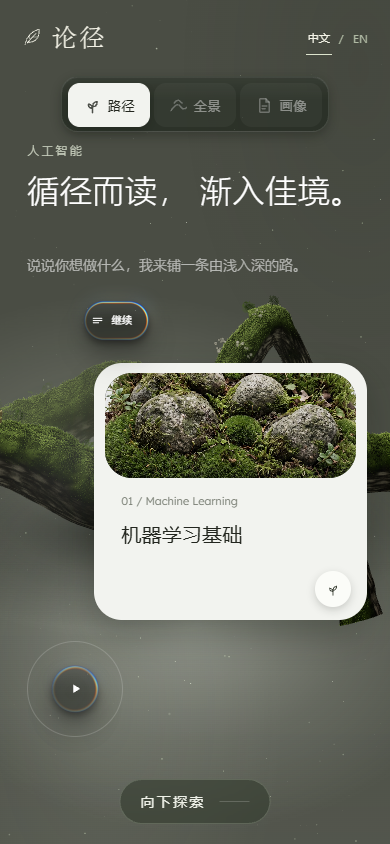
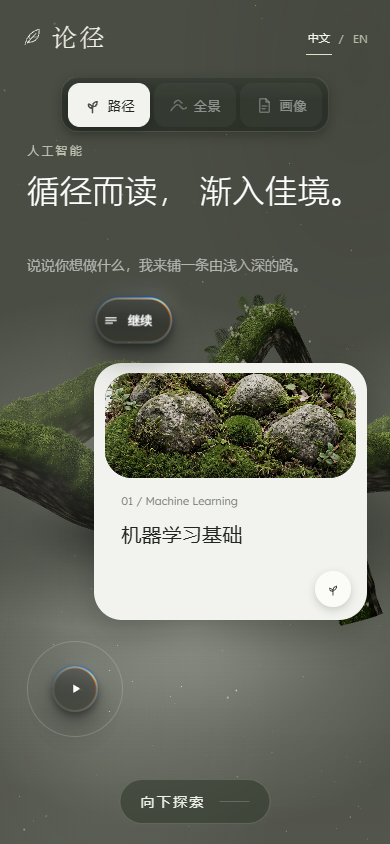
Extend vine right with continuous roots and layered atmosphere

diff --git a/lun-path/public/scenes/grove.html b/lun-path/public/scenes/grove.html
@@ -3396,6 +3396,8 @@ window.__seek   = v => { clock = v; drawn = null; };
 
     /* ---- near root ---- */
     var nearLimbs = buildNearRoot();
+    var butterflyLimbs = nearLimbs.slice();
+    nearLimbs = extendJourneyTrunk(nearLimbs);
     var mainCount = nearLimbs.length;
     /* a scatter of stubby offshoots, so the tubes never read as hoses */
     var hp = new THREE.Vector3(), hn = new THREE.Vector3();
@@ -3417,12 +3419,12 @@ window.__seek   = v => { clock = v; drawn = null; };
 
     nearGroup = assembleRoot(nearLimbs, {
       aspect: ARCH.aspect, haze: 0.15, fog: 0.0, alpha: 1.0, order: 2,
-      blades: BLADES_NEAR, ferns: small ? 26 : 46, flowers: small ? 120 : 260,
+      blades: BLADES_NEAR + (small ? 80000 : 180000), ferns: small ? 54 : 108, flowers: small ? 220 : 460,
       fernSize: [0.22, 0.50], flowerSize: [0.055, 0.118], mainLimbs: mainCount, wire: true,
       mouse: uMouseNear, mouseR: 1.20
     });
     scene.add(nearGroup);
-    if (!small) bf = buildButterfly(nearGroup, nearLimbs, nearGroup.userData.uni);
+    bf = buildButterfly(nearGroup, butterflyLimbs, nearGroup.userData.uni);
 
     /* ---- far ridge: same builder, pushed back and washed into the air.
             It dissolves before it reaches the cards (local x 0.5 → 4.0) and
@@ -3440,8 +3442,8 @@ window.__seek   = v => { clock = v; drawn = null; };
     });
     scene.add(farGroup);
 
-    buildJourney();
     buildAmbient();
+    buildJourney();
     layout();
     window.addEventListener('resize', layout);
     clock = new THREE.Clock();
@@ -4244,10 +4246,11 @@ window.__seek   = v => { clock = v; drawn = null; };
   }
 
   /* ── frame ─────────────────────────────────────────────────────────── */
-  /* Negative camera X looks LEFT; the world and native cards move RIGHT. */
+  /* Positive camera X looks RIGHT; the world and native cards move LEFT. */
   var travelTarget = 0, travelCurrent = 0, travelLast = null;
   var travelOverview = false, travelDirty = true, travelAnchors = [];
-  var travelSpan = 1, journeyGroups = [];
+  var travelSpan = 1, journeyGroups = [], journeyBranches = [], journeyPerches = [];
+  var journeyAir = [], journeyButterflies = [];
   var travelPose = { progress: 0, x: 0, y: 0, zoom: 1 };
   window.__groveTravel = {
     setProgress: function(p) { travelTarget = Math.max(0, Math.min(1, Number(p) || 0)); },
@@ -4255,38 +4258,67 @@ window.__seek   = v => { clock = v; drawn = null; };
     setOverview: function(value) { travelOverview = value; travelDirty = true; },
     moveNode: function() {
       var rect = document.querySelector('.play-wrap').getBoundingClientRect();
-      travelTarget = Math.min(1, travelCurrent + Math.max(0, W - rect.left + 4) / travelSpan);
+      travelTarget = Math.min(1, travelCurrent + Math.max(0, rect.right + 4) / travelSpan);
     }
   };
   window.addEventListener('resize', function() { travelDirty = true; });
-  function buildJourney() {
-    // Extend the authored near root with its own bark/moss shaders and plants.
+  function extendJourneyTrunk(nearLimbs) {
+    // A continuous trunk removes exposed ends between extension sections.
+    // Branch ends taper inside that trunk, using Sylva's original surface builder.
     var identity = function(x,y,z) { return new THREE.Vector3(x,y,z || 0); };
+    var original=nearLimbs[0];
+    var spine=original.curve.points.map(function(p){return [p.x,p.y,p.z];});
+    spine.push([6.5,-.66,-.65]);
     for (var j=0;j<4;j++) {
-      var start=-5.75-j*7.2, base=-.30;
-      var trunk=makeLimb(identity, [
-        [start+.18,j===0?-1.70:base,-.62],[start-1.5,base+.5,0],
-        [start-3.4,base+1.15,.25],[start-5.3,base+.25,0],[start-7.38,base,-.62]
-      ], {segs:180,radial:24,vScale:24,rt:[.56,.58,.6,.54,.56],sink:.5});
+      var start=5.9+j*7.2, base=-.30;
+      spine.push([start+1.5,base+.5,0], [start+3.4,base+1.15,.25],
+        [start+5.3,base+.25,0],[start+7.2,base,-.62]);
       var up=j%2===0;
       var branch=makeLimb(identity, [
-        [start-.8,base+.18,-.1], [start-2,base+(up?1.7:-.8),.15],
-        [start-3.5,base+(up?3.1:-1.3),.1], [start-5,base+(up?2.1:-.8),-.18],
-        [start-6.7,base+.12,-.45]
-      ], {segs:140,radial:20,vScale:22,rt:[.3,.36,.39,.32,.28],sink:.35});
-      var g=assembleRoot([trunk,branch], {
-        aspect:ARCH.aspect,haze:.15,fog:0,alpha:1,order:2,
-        blades:NARROW.matches?22000:65000,ferns:18,flowers:65,
-        fernSize:[.22,.50],flowerSize:[.055,.118],mainLimbs:2,wire:true,
+        [start+.45,j===0?-.46:base+.10,-.48],
+        [start+1.25,base+(up?.7:-.25),-.08],
+        [start+2.4,base+(up?2.2:-1),up?-1.25:-.5],
+        [start+3.6,base+(up?2.9:-1.25),up?-1.65:-.7],
+        [start+5,base+(up?2:-.75),up?-1.15:-.5],
+        [start+6.25,base+(up?.45:-.20),-.38],
+        [start+6.9,base+.03,-.55]
+      ], {segs:180,radial:24,vScale:22,rt:[.08,.23,.34,.37,.32,.21,.06],sink:.35});
+      journeyBranches.push({limb:branch,far:up});
+      journeyPerches.push(makeLimb(identity,[
+        [start+1.5,base+.5,0],[start+3.4,base+1.15,.25],[start+5.3,base+.25,0]
+      ],{segs:90,radial:20,vScale:12,rt:[.56,.56,.56],sink:.5}));
+    }
+    // Continue beyond the final stop, keeping the far endpoint out of view.
+    spine.push([36.7,-.1,-.55],[39,.35,-.25]);
+    var curve=new THREE.CatmullRomCurve3(spine.map(function(p){return identity(p[0],p[1],p[2]);}),false,'centripetal',.5);
+    var originalFraction=original.len/curve.getLength();
+    var extended=makeLimb(identity,spine,{
+      segs:1100,radial:28,vScale:120,sink:.5,
+      rw:function(t){var blend=sstep(originalFraction-.015,originalFraction+.03,t);return original.rw(Math.min(1,t/originalFraction))*(1-blend)+.56*.52*knot(t,.05,.024)*blend;},
+      moss:function(t){var blend=sstep(originalFraction-.015,originalFraction+.03,t);return original.moss(Math.min(1,t/originalFraction))*(1-blend)+.56*.88*blend;}
+    });
+    return [extended].concat(nearLimbs.slice(1));
+  }
+  function buildJourney() {
+    journeyBranches.forEach(function(item,i){
+      var g=assembleRoot([item.limb],{
+        aspect:ARCH.aspect,haze:.16,fog:item.far?.27:.12,alpha:1,order:1,
+        hazeCol:[.150,.164,.120],hazeLift:.82,
+        blades:NARROW.matches?11000:24000,ferns:12,flowers:35,
+        fernSize:[.22,.50],flowerSize:[.055,.118],mainLimbs:1,wire:true,
         mouse:uMouseNear,mouseR:1.2
       });
       journeyGroups.push(g);scene.add(g);
-    }
+      journeyButterflies.push(buildButterfly(nearGroup,[journeyPerches[i]],nearGroup.userData.uni));
+      var ridge=farGroup.clone(true),light=glowMesh.clone(),shadow=shadowMesh.clone();
+      scene.add(ridge,light,shadow);journeyAir.push({ridge:ridge,light:light,shadow:shadow});
+    });
     window.__groveBuildCount = (window.__groveBuildCount || 0) + 1;
+    window.__groveAtmosphere = {distantBranches:journeyGroups.length,butterflies:journeyButterflies.length+1};
   }
   function measureTravel() {
     var narrow=W<700;
-    var step=Math.max(W*.85,600);
+    var step=7.2*nearGroup.scale.x;
     travelSpan=step*4;
     var cards=Array.prototype.slice.call(document.querySelectorAll('.card[data-category]'));
     cards.forEach(function(el,i) {
@@ -4294,7 +4326,7 @@ window.__seek   = v => { clock = v; drawn = null; };
       if(!travelOverview) {
         var width=narrow?Math.min(W*.70,300):Math.min(W*.235,340);
         el.style.width=width+'px';el.style.height=width*.94+'px';
-        el.style.left=((narrow?W*.59:W*.69)-width/2-i*step)+'px';
+        el.style.left=((narrow?W*.59:W*.69)-width/2+i*step)+'px';
         el.style.top=(narrow?H*.43:H*(i%2===0?.19:.44))+'px';
       } else ['width','height','left','top'].forEach(function(k){el.style.removeProperty(k);});
     });
@@ -4306,14 +4338,21 @@ window.__seek   = v => { clock = v; drawn = null; };
     if(travelDirty)measureTravel();
     travelCurrent=REDUCED?travelTarget:travelCurrent+(travelTarget-travelCurrent)*(1-Math.exp(-dt*9));
     if(Math.abs(travelTarget-travelCurrent)<.00005)travelCurrent=travelTarget;
-    var x=travelOverview?0:-travelCurrent*travelSpan;
+    var x=travelOverview?0:travelCurrent*travelSpan;
     camera.position.set(x,0,DIST);camera.lookAt(x,0,0);
     journeyGroups.forEach(function(g){
       g.scale.copy(nearGroup.scale);g.position.copy(nearGroup.position);g.rotation.copy(nearGroup.rotation);
-      g.scale.x=(travelSpan/4)/7.2;
-      g.position.x+=-5.75*(nearGroup.scale.x-g.scale.x);
       g.visible=!travelOverview;
     });
+    journeyAir.forEach(function(air,i){
+      [[air.ridge,farGroup],[air.light,glowMesh],[air.shadow,shadowMesh]].forEach(function(pair){
+        pair[0].position.copy(pair[1].position);pair[0].scale.copy(pair[1].scale);pair[0].rotation.copy(pair[1].rotation);
+        pair[0].position.x+=(i+1)*travelSpan/4*(DIST-pair[1].position.z)/DIST;
+        pair[0].visible=!travelOverview;
+      });
+    });
+    if(!REDUCED)journeyButterflies.forEach(function(update){update(dt,uTime.value);});
+    if(motes)motes.position.x=x;
     nearGroup.visible=true;farGroup.visible=!travelOverview;
     if(travelOverview) { camera.position.y=H*.43;camera.lookAt(0,H*.43,0); }
     if(travelLast!==x) {

diff --git a/lun-path/scripts/scene-travel-hook.js b/lun-path/scripts/scene-travel-hook.js
@@ -1,7 +1,8 @@
-  /* Negative camera X looks LEFT; the world and native cards move RIGHT. */
+  /* Positive camera X looks RIGHT; the world and native cards move LEFT. */
   var travelTarget = 0, travelCurrent = 0, travelLast = null;
   var travelOverview = false, travelDirty = true, travelAnchors = [];
-  var travelSpan = 1, journeyGroups = [];
+  var travelSpan = 1, journeyGroups = [], journeyBranches = [], journeyPerches = [];
+  var journeyAir = [], journeyButterflies = [];
   var travelPose = { progress: 0, x: 0, y: 0, zoom: 1 };
   window.__groveTravel = {
     setProgress: function(p) { travelTarget = Math.max(0, Math.min(1, Number(p) || 0)); },
@@ -9,38 +10,67 @@
     setOverview: function(value) { travelOverview = value; travelDirty = true; },
     moveNode: function() {
       var rect = document.querySelector('.play-wrap').getBoundingClientRect();
-      travelTarget = Math.min(1, travelCurrent + Math.max(0, W - rect.left + 4) / travelSpan);
+      travelTarget = Math.min(1, travelCurrent + Math.max(0, rect.right + 4) / travelSpan);
     }
   };
   window.addEventListener('resize', function() { travelDirty = true; });
-  function buildJourney() {
-    // Extend the authored near root with its own bark/moss shaders and plants.
+  function extendJourneyTrunk(nearLimbs) {
+    // A continuous trunk removes exposed ends between extension sections.
+    // Branch ends taper inside that trunk, using Sylva's original surface builder.
     var identity = function(x,y,z) { return new THREE.Vector3(x,y,z || 0); };
+    var original=nearLimbs[0];
+    var spine=original.curve.points.map(function(p){return [p.x,p.y,p.z];});
+    spine.push([6.5,-.66,-.65]);
     for (var j=0;j<4;j++) {
-      var start=-5.75-j*7.2, base=-.30;
-      var trunk=makeLimb(identity, [
-        [start+.18,j===0?-1.70:base,-.62],[start-1.5,base+.5,0],
-        [start-3.4,base+1.15,.25],[start-5.3,base+.25,0],[start-7.38,base,-.62]
-      ], {segs:180,radial:24,vScale:24,rt:[.56,.58,.6,.54,.56],sink:.5});
+      var start=5.9+j*7.2, base=-.30;
+      spine.push([start+1.5,base+.5,0], [start+3.4,base+1.15,.25],
+        [start+5.3,base+.25,0],[start+7.2,base,-.62]);
       var up=j%2===0;
       var branch=makeLimb(identity, [
-        [start-.8,base+.18,-.1], [start-2,base+(up?1.7:-.8),.15],
-        [start-3.5,base+(up?3.1:-1.3),.1], [start-5,base+(up?2.1:-.8),-.18],
-        [start-6.7,base+.12,-.45]
-      ], {segs:140,radial:20,vScale:22,rt:[.3,.36,.39,.32,.28],sink:.35});
-      var g=assembleRoot([trunk,branch], {
-        aspect:ARCH.aspect,haze:.15,fog:0,alpha:1,order:2,
-        blades:NARROW.matches?22000:65000,ferns:18,flowers:65,
-        fernSize:[.22,.50],flowerSize:[.055,.118],mainLimbs:2,wire:true,
+        [start+.45,j===0?-.46:base+.10,-.48],
+        [start+1.25,base+(up?.7:-.25),-.08],
+        [start+2.4,base+(up?2.2:-1),up?-1.25:-.5],
+        [start+3.6,base+(up?2.9:-1.25),up?-1.65:-.7],
+        [start+5,base+(up?2:-.75),up?-1.15:-.5],
+        [start+6.25,base+(up?.45:-.20),-.38],
+        [start+6.9,base+.03,-.55]
+      ], {segs:180,radial:24,vScale:22,rt:[.08,.23,.34,.37,.32,.21,.06],sink:.35});
+      journeyBranches.push({limb:branch,far:up});
+      journeyPerches.push(makeLimb(identity,[
+        [start+1.5,base+.5,0],[start+3.4,base+1.15,.25],[start+5.3,base+.25,0]
+      ],{segs:90,radial:20,vScale:12,rt:[.56,.56,.56],sink:.5}));
+    }
+    // Continue beyond the final stop, keeping the far endpoint out of view.
+    spine.push([36.7,-.1,-.55],[39,.35,-.25]);
+    var curve=new THREE.CatmullRomCurve3(spine.map(function(p){return identity(p[0],p[1],p[2]);}),false,'centripetal',.5);
+    var originalFraction=original.len/curve.getLength();
+    var extended=makeLimb(identity,spine,{
+      segs:1100,radial:28,vScale:120,sink:.5,
+      rw:function(t){var blend=sstep(originalFraction-.015,originalFraction+.03,t);return original.rw(Math.min(1,t/originalFraction))*(1-blend)+.56*.52*knot(t,.05,.024)*blend;},
+      moss:function(t){var blend=sstep(originalFraction-.015,originalFraction+.03,t);return original.moss(Math.min(1,t/originalFraction))*(1-blend)+.56*.88*blend;}
+    });
+    return [extended].concat(nearLimbs.slice(1));
+  }
+  function buildJourney() {
+    journeyBranches.forEach(function(item,i){
+      var g=assembleRoot([item.limb],{
+        aspect:ARCH.aspect,haze:.16,fog:item.far?.27:.12,alpha:1,order:1,
+        hazeCol:[.150,.164,.120],hazeLift:.82,
+        blades:NARROW.matches?11000:24000,ferns:12,flowers:35,
+        fernSize:[.22,.50],flowerSize:[.055,.118],mainLimbs:1,wire:true,
         mouse:uMouseNear,mouseR:1.2
       });
       journeyGroups.push(g);scene.add(g);
-    }
+      journeyButterflies.push(buildButterfly(nearGroup,[journeyPerches[i]],nearGroup.userData.uni));
+      var ridge=farGroup.clone(true),light=glowMesh.clone(),shadow=shadowMesh.clone();
+      scene.add(ridge,light,shadow);journeyAir.push({ridge:ridge,light:light,shadow:shadow});
+    });
     window.__groveBuildCount = (window.__groveBuildCount || 0) + 1;
+    window.__groveAtmosphere = {distantBranches:journeyGroups.length,butterflies:journeyButterflies.length+1};
   }
   function measureTravel() {
     var narrow=W<700;
-    var step=Math.max(W*.85,600);
+    var step=7.2*nearGroup.scale.x;
     travelSpan=step*4;
     var cards=Array.prototype.slice.call(document.querySelectorAll('.card[data-category]'));
     cards.forEach(function(el,i) {
@@ -48,7 +78,7 @@
       if(!travelOverview) {
         var width=narrow?Math.min(W*.70,300):Math.min(W*.235,340);
         el.style.width=width+'px';el.style.height=width*.94+'px';
-        el.style.left=((narrow?W*.59:W*.69)-width/2-i*step)+'px';
+        el.style.left=((narrow?W*.59:W*.69)-width/2+i*step)+'px';
         el.style.top=(narrow?H*.43:H*(i%2===0?.19:.44))+'px';
       } else ['width','height','left','top'].forEach(function(k){el.style.removeProperty(k);});
     });
@@ -60,14 +90,21 @@
     if(travelDirty)measureTravel();
     travelCurrent=REDUCED?travelTarget:travelCurrent+(travelTarget-travelCurrent)*(1-Math.exp(-dt*9));
     if(Math.abs(travelTarget-travelCurrent)<.00005)travelCurrent=travelTarget;
-    var x=travelOverview?0:-travelCurrent*travelSpan;
+    var x=travelOverview?0:travelCurrent*travelSpan;
     camera.position.set(x,0,DIST);camera.lookAt(x,0,0);
     journeyGroups.forEach(function(g){
       g.scale.copy(nearGroup.scale);g.position.copy(nearGroup.position);g.rotation.copy(nearGroup.rotation);
-      g.scale.x=(travelSpan/4)/7.2;
-      g.position.x+=-5.75*(nearGroup.scale.x-g.scale.x);
       g.visible=!travelOverview;
     });
+    journeyAir.forEach(function(air,i){
+      [[air.ridge,farGroup],[air.light,glowMesh],[air.shadow,shadowMesh]].forEach(function(pair){
+        pair[0].position.copy(pair[1].position);pair[0].scale.copy(pair[1].scale);pair[0].rotation.copy(pair[1].rotation);
+        pair[0].position.x+=(i+1)*travelSpan/4*(DIST-pair[1].position.z)/DIST;
+        pair[0].visible=!travelOverview;
+      });
+    });
+    if(!REDUCED)journeyButterflies.forEach(function(update){update(dt,uTime.value);});
+    if(motes)motes.position.x=x;
     nearGroup.visible=true;farGroup.visible=!travelOverview;
     if(travelOverview) { camera.position.y=H*.43;camera.lookAt(0,H*.43,0); }
     if(travelLast!==x) {

diff --git a/lun-path/public/assets/grove-bridge.js b/lun-path/public/assets/grove-bridge.js
@@ -64,7 +64,7 @@
       card.querySelector('.knob').setAttribute('aria-label',L('打开分类：','Open category: ')+category.title[state.language]);
       card.querySelector('img').alt=L(i%2===0?'苔藓覆盖的岩石':'薄雾中的苔藓岩石',i%2===0?'Moss-covered rocks':'Mossy rocks in a misty grove');
     });
-    document.querySelector('.liquid-button--play').setAttribute('aria-label',L('向左移动视角','Move the view left'));
+    document.querySelector('.liquid-button--play').setAttribute('aria-label',L('向右移动视角','Move the view right'));
     window.__groveTravel?.setOverview(overview());updateCue();
   }
   function scroll(delta){
@@ -94,7 +94,7 @@
     if(card&&(e.key==='Enter'||e.key===' ')){e.preventDefault();navigate(card.dataset.grovePath);return;}
     if(overview()||e.target.closest('button,a,input,textarea'))return;
     if(e.key==='Home'||e.key==='End'){e.preventDefault();window.__groveTravel?.setProgress(e.key==='Home'?0:1);return;}
-    const delta={ArrowDown:100,ArrowUp:-100,ArrowLeft:100,ArrowRight:-100,PageDown:innerWidth*.8,PageUp:-innerWidth*.8,' ':innerWidth*.8}[e.key];
+    const delta={ArrowDown:100,ArrowUp:-100,ArrowLeft:-100,ArrowRight:100,PageDown:innerWidth*.8,PageUp:-innerWidth*.8,' ':innerWidth*.8}[e.key];
     if(delta){e.preventDefault();scroll(delta);}
   });
   window.addEventListener('grove-travel-frame',e=>{pose=e.detail;updateCue();});

diff --git a/lun-path/public/assets/grove-adaptation.css b/lun-path/public/assets/grove-adaptation.css
@@ -11,7 +11,7 @@ html,body{height:100%;overflow:hidden}
 .headline{left:6vw;top:21vh;font-size:clamp(30px,3.3vw,54px);line-height:1.35;letter-spacing:.02em;max-width:48vw}
 .lede{left:6vw;top:37vh;width:28vw;font-size:16px;line-height:1.8}
 .direction-label{position:absolute;left:6vw;top:16vh;font-size:13px;letter-spacing:.18em;color:#d2d9c7;z-index:4}
-.pill-clip{left:6vw;top:47vh;margin:calc(-167 * var(--u)) 0 0 calc(-79 * var(--u))}
+.pill-clip{left:8vw;top:47vh;margin:calc(-167 * var(--u)) 0 0 calc(-79 * var(--u));scale:1.24;transform-origin:38% 50%}
 .ghost{display:none}
 .play-wrap{left:12vw;top:64vh;width:clamp(100px,10.6vw,170px);height:clamp(100px,10.6vw,170px)}
 .card[data-category]{z-index:4;cursor:pointer;container-type:inline-size;will-change:translate;border-radius:clamp(28px,3vw,46px)}
@@ -52,7 +52,7 @@ html,body{height:100%;overflow:hidden}
   .headline span{display:inline}.headline i{display:inline}
   .lede{top:30vh;left:7vw;width:80vw;font-size:14px}
   .direction-label{top:17vh;left:7vw;font-size:12px}
-  .pill-clip{top:38vh;left:7vw}
+  .pill-clip{top:38vh;left:10vw;scale:1.2}
   .play-wrap{display:block;left:7vw;top:76vh;width:96px;height:96px}
   .ghost{top:70vh;font-size:45vw}
   .is-overview .hero{overflow-y:auto;overflow-x:hidden}

diff --git a/lun-path/docs/part1-vine-overview.md b/lun-path/docs/part1-vine-overview.md
@@ -4,11 +4,12 @@
 
 - 导航：路径 / 全景 / 画像；Path / Overview / Profile。
 - 五分类：机器学习基础、神经网络、深度学习、计算机视觉、自然语言处理。
-- 以会话最新确认覆盖清单旧方向：滚轮向下、点击圆形节点，均为**视角向左，场景内容向右**。节点移动到刚好离开右侧视野；反向滚动可返回。
+- 以会话最新确认更新方向：滚轮向下、点击圆形节点，均为**视角向右，场景内容向左**，藤蔓向右延展。节点移动到刚好离开左侧视野；反向滚动可返回。
 - 五个分类分别进入自己的白屏路由，书架与书目待后续部分实现。
 - 全景采用确认草图的三张上排、两张下排。手机两列，最后一张居中，可纵向浏览。
 - 主标题“循径而读，渐入佳境。”，副标题“说说你想做什么，我来铺一条由浅入深的路。”；开始 / 继续依据学习状态切换。
 - 去掉生态统计；根据后续反馈去掉背景半透明“论径”大字，保留左上品牌。
+- 后续反馈：延伸区加入远景雾气和蝴蝶；前排主干保持清晰，后排拱枝降低对比度并后移，利用原版雾化材质衬托远近。“开始 / 继续”按钮放大约 24%（手机 20%），略向右移。
 
 ## 原版复用说明
 
@@ -16,7 +17,7 @@
 
 保留原版近景与远景藤蔓、树皮与苔藓着色器、草叶实例、蕨类、小花、花粉、蝴蝶、液态金属按钮、导航交互、入场扫描、卡片照片揭幕和悬浮效果。全景和路径复用相同的五个卡片 DOM；照片来自原版两张 JPG，交替使用。
 
-修改：用原版 `makeLimb` / `assembleRoot` 增建四段有分叉的藤蔓，连接原有根系；改为水平相机路径；两张原生卡片扩为五张，适配尺寸、位置与文字；将卡片圆钮放入卡片右下角；导航减为三个。全景仅切换布局和相机，单个 iframe 在其他页面隐藏保留，返回时不重建场景。
+修改：用原版 `makeLimb` / `assembleRoot` 将原主干控制点直接延长，生成同一张连续网格，并新增四条分叉；分叉端部渐细并埋入主干，消除分段端面。延伸区复用原版远景、雾化材质与光晕，四只新增蝴蝶沿用原版飞行和振翅代码。后排拱枝后移并加强雾化，前排主干维持清晰。探索改为水平相机路径；两张原生卡片扩为五张，适配尺寸、位置与文字；将卡片圆钮放入卡片右下角；导航减为三个。全景仅切换布局和相机，单个 iframe 在其他页面隐藏保留，返回时不重建场景。
 
 未沿用：原示例生态文案与统计、额外导航项、背景装饰大字、原页面在手机上把卡片照片缩成侧边小图的布局。未引入其他三套参考作品的新改造，未调整旧测评、论文正文或难度分支数据。
 
